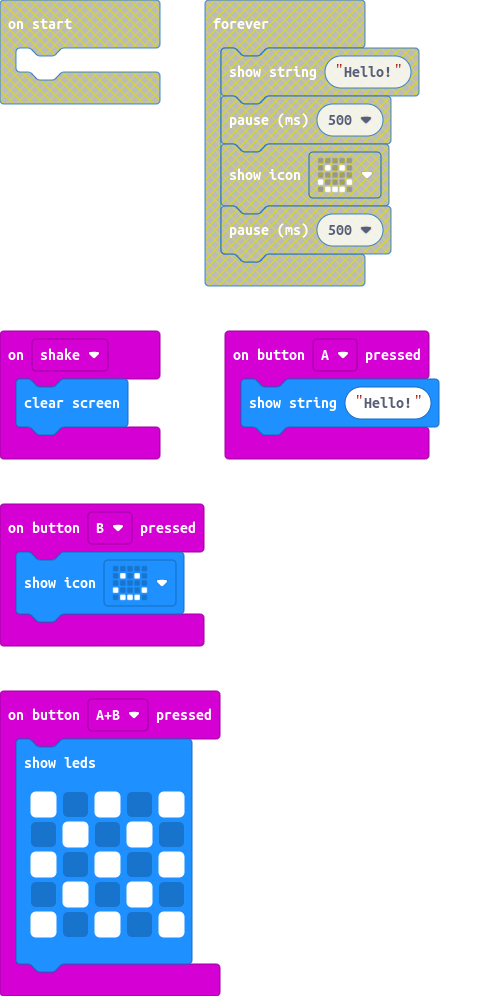
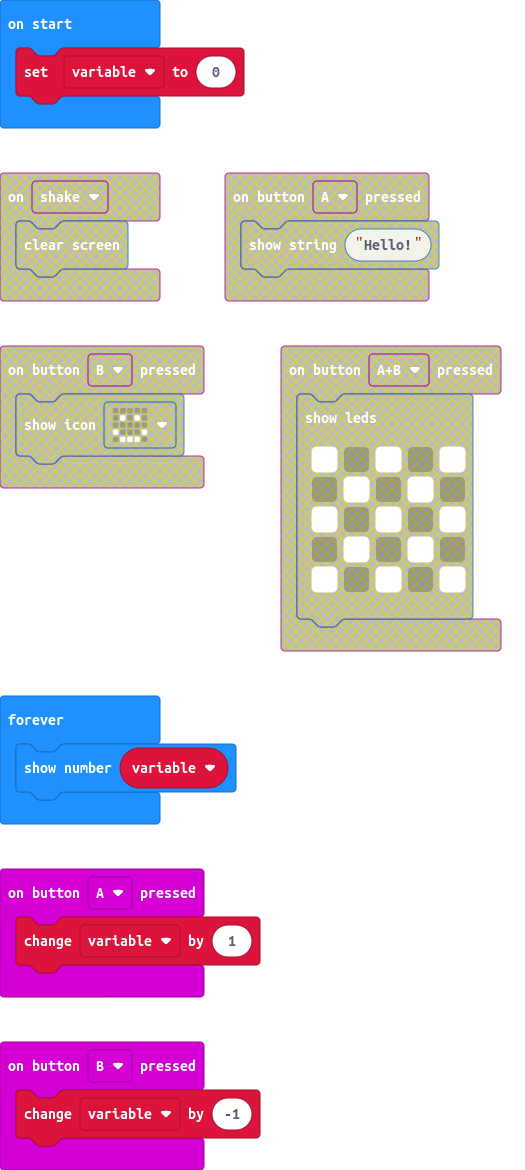
Update main.blocks, main.ts

diff --git a/main.ts b/main.ts
@@ -1,18 +1,10 @@
 input.onButtonPressed(Button.A, function () {
-    basic.showString("Hello!")
-})
-input.onButtonPressed(Button.AB, function () {
-    basic.showLeds(`
-        # . # . #
-        . # . # .
-        # . # . #
-        . # . # .
-        # . # . #
-        `)
+    variable += 1
 })
 input.onButtonPressed(Button.B, function () {
-    basic.showIcon(IconNames.Happy)
+    variable += -1
 })
-input.onGesture(Gesture.Shake, function () {
-    basic.clearScreen()
+let variable = 0
+basic.forever(function () {
+    basic.showNumber(variable)
 })
